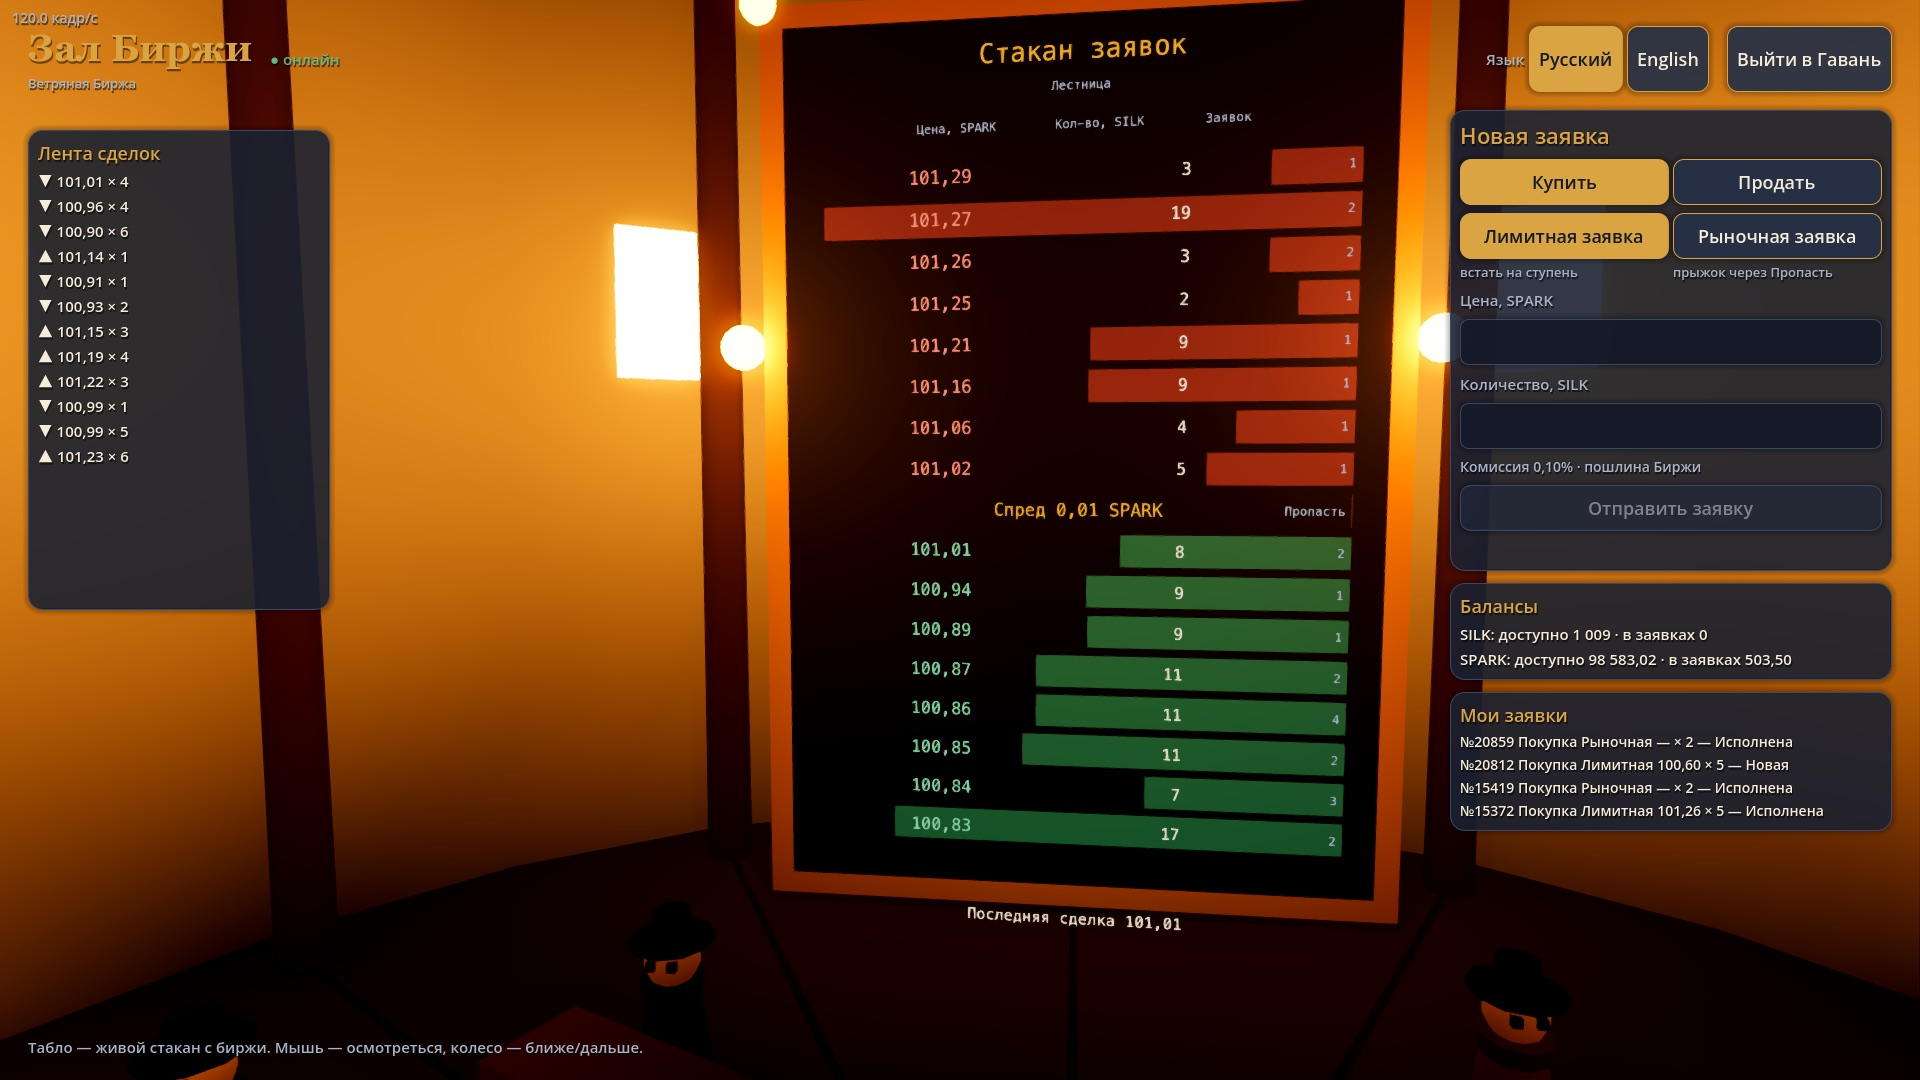
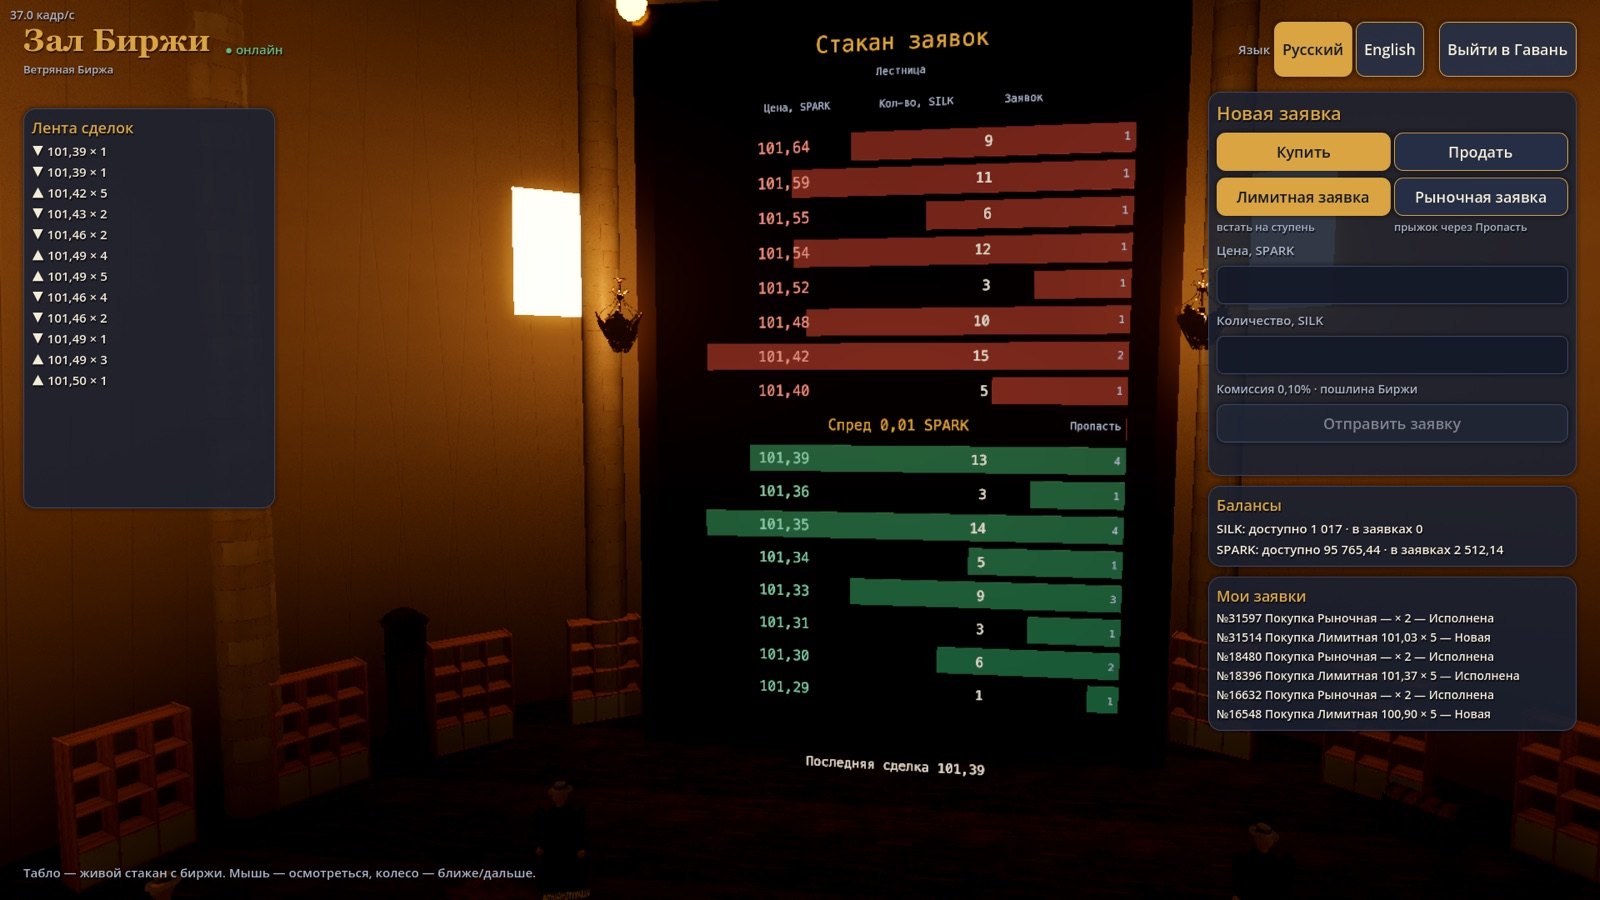
game3d: asset licences, README and fresh G3D screenshots

diff --git a/game3d/ASSETS.md b/game3d/ASSETS.md
@@ -1,13 +1,72 @@
 # game3d — assets and licences
 
+## Downloaded CC0 art (ADR-0019)
+
+Not in git. `make assets` downloads every file listed in `game3d/assets.lock` (source URL, size, MD5 published by
+Poly Haven) into `game3d/assets/` and checks each MD5. Total 169 MB, 213 files.
+To change the list: edit `game3d/tools/assets_resolve.py`, run it to regenerate the lock, run `make assets`.
+
+All Poly Haven assets are CC0 1.0 — public domain, no attribution required (https://polyhaven.com/license).
+We credit them anyway. No assets from ambientCG, Quaternius or Kenney ended up in use: Poly Haven covered every need
+with one licence and stable direct URLs (Quaternius has no stable direct URLs; Kenney/Quaternius are stylised and
+clash with PBR).
+
+| Asset | Kind | Source | Licence | Size |
+|---|---|---|---|---|
+| `qwantani_late_afternoon_puresky` | HDRI sky | [polyhaven.com/a/qwantani_late_afternoon_puresky](https://polyhaven.com/a/qwantani_late_afternoon_puresky) | CC0 | 4.4 MB |
+| `Lantern_01` | glTF model (1k textures) | [polyhaven.com/a/Lantern_01](https://polyhaven.com/a/Lantern_01) | CC0 | 1.4 MB |
+| `WoodenChair_01` | glTF model (1k textures) | [polyhaven.com/a/WoodenChair_01](https://polyhaven.com/a/WoodenChair_01) | CC0 | 1.1 MB |
+| `WoodenTable_01` | glTF model (1k textures) | [polyhaven.com/a/WoodenTable_01](https://polyhaven.com/a/WoodenTable_01) | CC0 | 0.6 MB |
+| `book_encyclopedia_set_01` | glTF model (1k textures) | [polyhaven.com/a/book_encyclopedia_set_01](https://polyhaven.com/a/book_encyclopedia_set_01) | CC0 | 3.3 MB |
+| `boulder_01` | glTF model (1k textures) | [polyhaven.com/a/boulder_01](https://polyhaven.com/a/boulder_01) | CC0 | 5.8 MB |
+| `dutch_ship_medium` | glTF model (1k textures) | [polyhaven.com/a/dutch_ship_medium](https://polyhaven.com/a/dutch_ship_medium) | CC0 | 8.7 MB |
+| `fern_02` | glTF model (1k textures) | [polyhaven.com/a/fern_02](https://polyhaven.com/a/fern_02) | CC0 | 1.1 MB |
+| `fishermans_hat` | glTF model (1k textures) | [polyhaven.com/a/fishermans_hat](https://polyhaven.com/a/fishermans_hat) | CC0 | 2.3 MB |
+| `grass_medium_01` | glTF model (1k textures) | [polyhaven.com/a/grass_medium_01](https://polyhaven.com/a/grass_medium_01) | CC0 | 3.1 MB |
+| `island_tree_02` | glTF model (1k textures) | [polyhaven.com/a/island_tree_02](https://polyhaven.com/a/island_tree_02) | CC0 | 46.2 MB |
+| `lantern_chandelier_01` | glTF model (1k textures) | [polyhaven.com/a/lantern_chandelier_01](https://polyhaven.com/a/lantern_chandelier_01) | CC0 | 1.5 MB |
+| `lifebuoy` | glTF model (1k textures) | [polyhaven.com/a/lifebuoy](https://polyhaven.com/a/lifebuoy) | CC0 | 2.6 MB |
+| `rock_moss_set_01` | glTF model (1k textures) | [polyhaven.com/a/rock_moss_set_01](https://polyhaven.com/a/rock_moss_set_01) | CC0 | 1.9 MB |
+| `seadogs_compass` | glTF model (1k textures) | [polyhaven.com/a/seadogs_compass](https://polyhaven.com/a/seadogs_compass) | CC0 | 2.7 MB |
+| `ship_pinnace` | glTF model (1k textures) | [polyhaven.com/a/ship_pinnace](https://polyhaven.com/a/ship_pinnace) | CC0 | 21.1 MB |
+| `shrub_01` | glTF model (1k textures) | [polyhaven.com/a/shrub_01](https://polyhaven.com/a/shrub_01) | CC0 | 6.9 MB |
+| `street_lamp_02` | glTF model (1k textures) | [polyhaven.com/a/street_lamp_02](https://polyhaven.com/a/street_lamp_02) | CC0 | 1.9 MB |
+| `treasure_chest` | glTF model (1k textures) | [polyhaven.com/a/treasure_chest](https://polyhaven.com/a/treasure_chest) | CC0 | 5.5 MB |
+| `vintage_grandfather_clock_01` | glTF model (1k textures) | [polyhaven.com/a/vintage_grandfather_clock_01](https://polyhaven.com/a/vintage_grandfather_clock_01) | CC0 | 2.4 MB |
+| `wine_barrel_01` | glTF model (1k textures) | [polyhaven.com/a/wine_barrel_01](https://polyhaven.com/a/wine_barrel_01) | CC0 | 0.9 MB |
+| `wooden_barrels_01` | glTF model (1k textures) | [polyhaven.com/a/wooden_barrels_01](https://polyhaven.com/a/wooden_barrels_01) | CC0 | 7.5 MB |
+| `wooden_bucket_01` | glTF model (1k textures) | [polyhaven.com/a/wooden_bucket_01](https://polyhaven.com/a/wooden_bucket_01) | CC0 | 2.3 MB |
+| `wooden_crate_01` | glTF model (1k textures) | [polyhaven.com/a/wooden_crate_01](https://polyhaven.com/a/wooden_crate_01) | CC0 | 2.3 MB |
+| `wooden_crate_02` | glTF model (1k textures) | [polyhaven.com/a/wooden_crate_02](https://polyhaven.com/a/wooden_crate_02) | CC0 | 2.2 MB |
+| `wooden_display_shelves_01` | glTF model (1k textures) | [polyhaven.com/a/wooden_display_shelves_01](https://polyhaven.com/a/wooden_display_shelves_01) | CC0 | 0.5 MB |
+| `wooden_lantern_01` | glTF model (1k textures) | [polyhaven.com/a/wooden_lantern_01](https://polyhaven.com/a/wooden_lantern_01) | CC0 | 3.8 MB |
+| `clay_roof_tiles_02` | PBR texture set (diff, nor_gl, arm, 1k) | [polyhaven.com/a/clay_roof_tiles_02](https://polyhaven.com/a/clay_roof_tiles_02) | CC0 | 2.5 MB |
+| `cobblestone_floor_04` | PBR texture set (diff, nor_gl, arm, 1k) | [polyhaven.com/a/cobblestone_floor_04](https://polyhaven.com/a/cobblestone_floor_04) | CC0 | 1.6 MB |
+| `dark_wood` | PBR texture set (diff, nor_gl, arm, 1k) | [polyhaven.com/a/dark_wood](https://polyhaven.com/a/dark_wood) | CC0 | 1.7 MB |
+| `denim_fabric` | PBR texture set (diff, nor_gl, arm, 1k) | [polyhaven.com/a/denim_fabric](https://polyhaven.com/a/denim_fabric) | CC0 | 1.6 MB |
+| `leafy_grass` | PBR texture set (diff, nor_gl, arm, 1k) | [polyhaven.com/a/leafy_grass](https://polyhaven.com/a/leafy_grass) | CC0 | 3.7 MB |
+| `marble_01` | PBR texture set (diff, nor_gl, arm, 1k) | [polyhaven.com/a/marble_01](https://polyhaven.com/a/marble_01) | CC0 | 0.5 MB |
+| `mossy_rock` | PBR texture set (diff, nor_gl, arm, 1k) | [polyhaven.com/a/mossy_rock](https://polyhaven.com/a/mossy_rock) | CC0 | 3.0 MB |
+| `old_wooden_floor_02` | PBR texture set (diff, nor_gl, arm, 1k) | [polyhaven.com/a/old_wooden_floor_02](https://polyhaven.com/a/old_wooden_floor_02) | CC0 | 1.8 MB |
+| `plastered_wall_02` | PBR texture set (diff, nor_gl, arm, 1k) | [polyhaven.com/a/plastered_wall_02](https://polyhaven.com/a/plastered_wall_02) | CC0 | 1.9 MB |
+| `quatrefoil_jacquard_fabric` | PBR texture set (diff, nor_gl, arm, 1k) | [polyhaven.com/a/quatrefoil_jacquard_fabric](https://polyhaven.com/a/quatrefoil_jacquard_fabric) | CC0 | 2.6 MB |
+| `rock_face_03` | PBR texture set (diff, nor_gl, arm, 1k) | [polyhaven.com/a/rock_face_03](https://polyhaven.com/a/rock_face_03) | CC0 | 2.9 MB |
+| `weathered_planks` | PBR texture set (diff, nor_gl, arm, 1k) | [polyhaven.com/a/weathered_planks](https://polyhaven.com/a/weathered_planks) | CC0 | 1.8 MB |
+
+How they are used: `scripts/assets.gd` (paths, fallbacks), `scripts/proc.gd` (`_pbr_for` palette → texture set,
+`_real_ship`, `_person`), `scripts/archipelago.gd` (sky, harbour props, trees), `scripts/hall.gd` (interior).
+
+## Our own work
+
 | What | Source | Licence |
 |---|---|---|
-| All meshes: islands, ether crystals, trees, houses, the windmill Exchange, pier, ship «Попутчик», figures, silk racks, the order-book board, the hall | Generated in code: `scripts/proc.gd`, `scripts/archipelago.gd`, `scripts/board.gd`, `scripts/hall.gd` | Our own work, CC0 |
-| Cloud sea, sail | Shaders written here: `shaders/cloud_sea.gdshader`, `shaders/sail.gdshader` | Our own work, CC0 |
+| Island, house, windmill, pier and figure meshes; fallback look of everything | Generated in code: `scripts/proc.gd`, `scripts/archipelago.gd`, `scripts/board.gd`, `scripts/hall.gd` | Our own work, CC0 |
+| Cloud sea, sail, terrain shaders | `shaders/cloud_sea.gdshader`, `shaders/sail.gdshader`, `shaders/terrain.gdshader` | Our own work, CC0 |
 | Noise textures | Generated at runtime by Godot `FastNoiseLite` / `NoiseTexture2D` | Engine feature (MIT), output ours |
-| Sky | Godot `ProceduralSkyMaterial` | Engine feature (MIT) |
-| Fonts | Godot default font (Noto Sans, OFL) for UI; system Georgia/Times and Menlo/Consolas loaded via `SystemFont` (not shipped — the OS's own fonts, with fallbacks) | OFL / OS fonts, not redistributed |
+| Fallback sky | Godot `ProceduralSkyMaterial` | Engine feature (MIT) |
+| Fonts | Godot default font (Noto Sans, OFL) for UI; system Georgia/Times and Menlo/Consolas via `SystemFont` (not shipped) | OFL / OS fonts, not redistributed |
 | GUT test framework | `addons/gut` → symlink to `game/addons/gut` (GUT 9.7.1) | MIT |
 | Network, i18n, money, book logic | `shared/` → symlinks to `game/scripts/*.gd` | This repo |
 
-No third-party models, textures, sounds or music are used. Nothing is taken from existing games.
+No sounds or music. Nothing is taken from existing games: the Poly Haven models are generic real-world objects
+(a 17th-century Dutch ship, barrels, lamps), and the world, names and layout are ours.

diff --git a/docs/demo/G3D.md b/docs/demo/G3D.md
@@ -1,18 +1,20 @@
 # G3D demo — «Летопись Ветров» in 3D (`game3d/`)
 
-Second game client, same world and genre, stylised low-poly with soft toon light (ADR-0017, `docs/design/game3d-style.md`).
-Everything you see is generated in code; no imported art (`game3d/ASSETS.md`).
+Second game client, same world and genre (ADR-0017). Art: painterly realism with Poly Haven CC0 PBR assets — HDRI sky,
+textured wood/stone/plaster/cloth, a detailed ship, trees, rocks, cargo, furniture (ADR-0019, list in `game3d/ASSETS.md`).
+The assets are not in git: `make assets` downloads and MD5-checks them.
 
 ## Run
 ```
 make dev            # exchange + bots on :8080
+make assets         # once: CC0 art into game3d/assets/ (git-ignored)
 make game3d         # opens the 3D client
 ```
 Another port: `cd game3d && godot --path . -- --server=http://localhost:8090`. `F3` shows fps.
 
-Self-run demo that produced the screenshots below (Apple M5, 1920×1080, Forward+/Metal, 97–120 fps in every scene):
+Self-run demo that produced the screenshots below (Apple M5, 1920×1080, Forward+/Metal, FSR 2 at 0.8; fps is in the top-left corner of each shot: menu, hall and voyage 90–120, harbour 41–56 — the harbour is below the 60 fps target in some views):
 ```
-cd game3d && godot --path . --resolution 1920x1080 -- --server=http://localhost:8090 --demo=../docs/demo/g3d
+cd game3d && godot --path . --resolution 1920x1080 --always-on-top -- --server=http://localhost:8090 --demo=../docs/demo/g3d
 ```
 
 ## 1. Main menu over the live archipelago — ru/en on the fly
@@ -38,5 +40,5 @@ Market buy of 2 — `Filled 2 of 2`; English switched on the fly:
 ![arrival](g3d/11-voyage-silk-reach.jpg)
 
 ## Tests
-`make test-game3d` — 21 GUT tests headless: sim clock, voyage route and wind, board layout, the 3D stream's clock
-extension, procedural meshes, i18n (every key in ru and en, every key used in code exists, contract codes translated).
+`make test-game3d` — 22 GUT tests headless, green both with and without `make assets`: sim clock, voyage route and wind, board layout, the 3D stream's clock
+extension, procedural meshes, the assets fallback, i18n (every key in ru and en, every key used in code exists, contract codes translated).

diff --git a/README.md b/README.md
@@ -15,7 +15,7 @@ Never connected to a real market. Built as a one-year learning project.
 | `clients/web/` | React debug client | M1 |
 | `clients/mobile/` | Expo app «Ветрило» | M1 |
 | `game/` | Godot 4 game «Летопись Ветров» | M1 slice: menu → harbour → Ladder (`make game`) |
-| `game3d/` | Godot 4 game «Летопись Ветров» in 3D (ADR-0017) | Slice: menu → harbour → hall with the live book → voyage (`make game3d`) |
+| `game3d/` | Godot 4 game «Летопись Ветров» in 3D (ADR-0017, art ADR-0019) | Slice: menu → harbour → hall with the live book → voyage (`make assets`, `make game3d`) |
 | `docs/`, `intent/` | ADRs, lore, design, prompts, intents | — |
 
 ## How to run each part

diff --git a/game3d/README.md b/game3d/README.md
@@ -7,7 +7,8 @@ Vertical slice: main menu (ru/en) → Spark Harbour (walk or fly) → Exchange h
 limit and market orders) → voyage to Silk Reach while the exchange's simulation clock runs.
 
 ## Run
-1. Godot 4.7 on PATH (`brew install --cask godot`). 2. `make dev`. 3. `make game3d`.
+1. Godot 4.7 on PATH (`brew install --cask godot`). 2. `make dev`. 3. `make assets` (once, ~170 MB of CC0 art from Poly Haven, MD5-checked; ADR-0019). 4. `make game3d`.
+Without `make assets` the game still runs with the old procedural look.
 Other server: `godot --path game3d -- --server=http://localhost:8090`. Keys: WASD, mouse, Tab (fly camera), E (interact),
 Space (sail during the voyage), F3 (fps), Esc (release the mouse / leave the hall).
 

diff --git a/docs/design/game3d-style.md b/docs/design/game3d-style.md
@@ -1,3 +1,7 @@
+> **Update (ADR-0019):** the look moved to painterly realism — Poly Haven CC0 HDRI sky, PBR materials and models
+> (see `game3d/ASSETS.md`). Palette, light direction and the world below still hold; the procedural low-poly look
+> remains as the fallback without `make assets`.
+
 # game3d — style guide (ADR-0017)
 
 **One sentence:** a cosy late-afternoon sky archipelago — soft low-poly islands floating over a sea of clouds,
